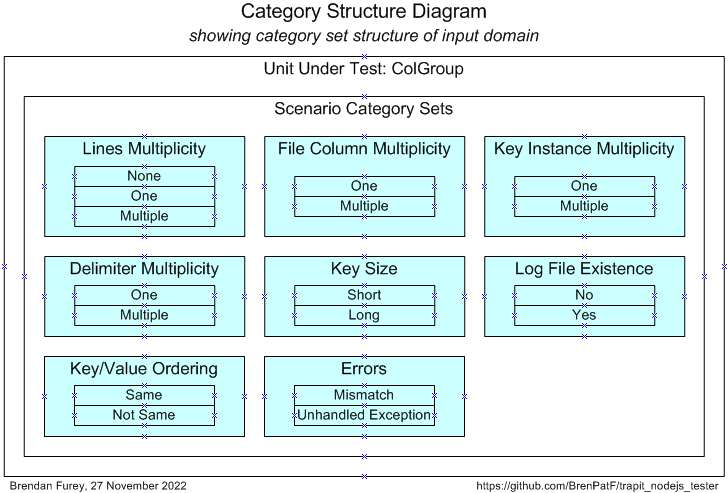
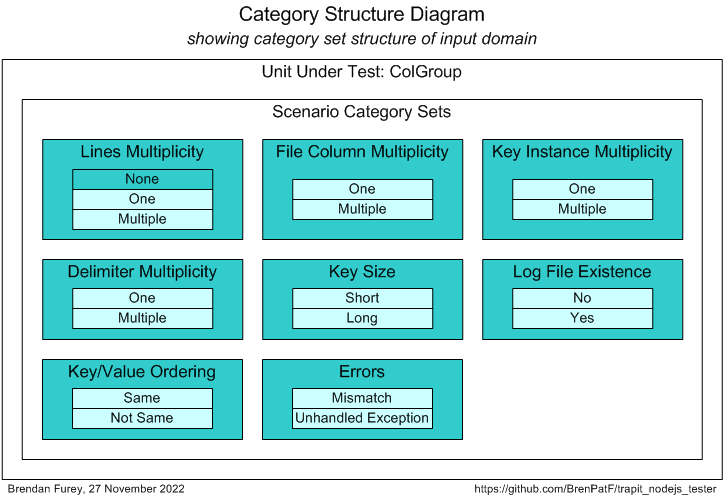
Added link to blog "The Math Function Unit Testing Design Pattern"
Made diagram colours consistent with the blog.

diff --git a/README.md b/README.md
@@ -5,7 +5,7 @@
 
 :detective:
 
-This module supports a new design pattern for unit testing that can be applied in any language, and is here implemented in JavaScript. The module name is derived from 'TRansactional API Testing' (TRAPIT), and the 'unit' should be considered to be a transactional unit. This is not micro-testing: It is data-driven and fully supports multi-scenario testing and re-factoring.
+This module supports a new design pattern for unit testing, [The Math Function Unit Testing Design Pattern](https://brenpatf.github.io/2023/06/05/the-math-function-unit-testing-design-pattern.html), that can be applied in any language, and is here implemented in JavaScript. The module name is derived from 'TRansactional API Testing' (TRAPIT), and the 'unit' should be considered to be a transactional unit. This is not micro-testing: It is data-driven and fully supports multi-scenario testing and re-factoring.
 
 The Trapit module supports the complete process for testing JavaScript programs, and, for non-JavaScript programs following the design pattern, formats the results by reading in a results object from a JSON file materialized by the external unit test program.
 
@@ -30,7 +30,7 @@ I explained the concepts for the unit testing design pattern in relation specifi
 
 - [The Database API Viewed As A Mathematical Function: Insights into Testing](https://www.slideshare.net/brendanfurey7/database-api-viewed-as-a-mathematical-function-insights-into-testing)
 
-I later named the approach 'The Math Function Unit Testing design pattern' when I applied it in Javascript and wrote a JavaScript program to format results both in plain text and as HTML pages:
+I later named the approach [The Math Function Unit Testing Design Pattern](https://brenpatf.github.io/2023/06/05/the-math-function-unit-testing-design-pattern.html) when I applied it in Javascript and wrote a JavaScript program to format results both in plain text and as HTML pages:
 - [Trapit - JavaScript Unit Tester/Formatter](https://github.com/BrenPatF/trapit_nodejs_tester)
 
 The module also allowed for the formatting of results obtained from testing in languages other than JavaScript by means of an intermediate output JSON file. In 2021 I developed a powershell module that included a utility to generate a template for the JSON input scenarios file required by the design pattern:
@@ -48,7 +48,7 @@ In early 2023 I extended both the the JavaScript results formatter, and the powe
 
 As noted above, the JavaScript module allows for unit testing of JavaScript programs and also the formatting of test results for both JavaScript and non-JavaScript programs. Similarly, the powershell module mentioned allows for unit testing of powershell programs, and also the generation of the JSON input scenarios file template for testing in any language.
 
-In this section we'll start by describing the steps involved in The Math Function Unit Testing design pattern at an overview level. This will show how the generic powershell and JavaScript utilities fit in alongside the language-specific driver utilities.
+In this section we'll start by describing the steps involved in [The Math Function Unit Testing Design Pattern](https://brenpatf.github.io/2023/06/05/the-math-function-unit-testing-design-pattern.html) at an overview level. This will show how the generic powershell and JavaScript utilities fit in alongside the language-specific driver utilities.
 
 Secondly, we'll show how to use the design pattern in unit testing JavaScript programs by means of two simple examples.
 
@@ -60,13 +60,13 @@ Finally, we'll show how to use the JavaScript formatting utility in unit testing
 [&darr; Step 2: Create Results Object](#step-2-create-results-object)<br />
 [&darr; Step 3: Format Results](#step-3-format-results)<br />
 
-At a high level the Math Function Unit Testing design pattern involves three main steps:
+At a high level [The Math Function Unit Testing Design Pattern](https://brenpatf.github.io/2023/06/05/the-math-function-unit-testing-design-pattern.html) involves three main steps:
 
 1. Create an input file containing all test scenarios with input data and expected output data for each scenario, as well as metadata describing the structure
 2. Create a results object based on the input file, but with actual outputs merged in, based on calls to the unit under test
 3. Use the results object to generate unit test results files formatted in HTML and/or text
 
-<img src="png/Math Function UT DP - HL Flow.png">
+<img src="png/HLS.png">
 <br />
 The first and third of these steps are supported by generic utilities that can be used in unit testing in any language. The second step uses a language-specific unit test driver utility.
 
@@ -187,9 +187,9 @@ For JavaScript programs tested using the Math Function Unit Testing design patte
 This creates a subfolder with name based on the unit test title within the input JSON file, and also outputs a table of summary results. The processing is split between three code units:
 - Trapit library package with Test Unit function that drives the unit testing with a callback to a specific wrapper function, then calls the Format Results function to do the formatting
 - Specific Test Package: This has a 1-line main program to call the library driver function, passing in the callback wrapper function
-- Unit Under Test: Called by the wrapper function, which converts between its specific inputs and outputs and the generic version used by the library package
+- Unit Under Test (API): Called by the wrapper function, which converts between its specific inputs and outputs and the generic version used by the library package
 
-<img src="png/MFUTDP - Flow-JS.png">
+<img src="png/PFD-JS.png">
 
 This section illustrates the usage of the package for testing JavaScript programs by means of two examples. The first is a version of the 'Hello World' program traditionally used as a starting point in learning a new programming language. This is useful as it shows the core structures involved in following the design pattern with a minimalist unit under test.
 
@@ -235,7 +235,7 @@ Hello World!
 
 Here is a diagram of the input and output groups for this example:
 
-<img src="png/JSD-HW.png">
+<img src="png/JSD - HW.png">
 
 From the input and output groups depicted we can construct CSV files with flattened group/field structures, and default values added, as follows (with `helloworld_inp.csv` left, `helloworld_out.csv` right):
 <img src="png/groups - helloworld.png">
@@ -459,7 +459,7 @@ The example illustrates how a wrapper function can handle `impure` features of t
 
 Here is a diagram of the input and output groups for this example:
 
-<img src="png/JSD-CG.png">
+<img src="png/JSD - CG.png">
 
 From the input and output groups depicted we can construct CSV files with flattened group/field structures, and default values added, as follows (with `colgroup_inp.csv` left, `colgroup_out.csv` right):
 <img src="png/groups - colgroup.png">
@@ -632,9 +632,9 @@ For non-JavaScript programs tested using the Math Function Unit Testing design p
 This creates a subfolder for each JSON file with name based on the unit test title within the file, and also outputs a table of summary results for each file. The processing is split between three code units in a similar way to the JavaScript case:
 - Test Unit: External library function that drives the unit testing with a callback to a specific wrapper function
 - Specific Test Package: This has a 1-line main program to call the library driver function, passing in the callback wrapper function
-- Unit Under Test: Called by the wrapper function, which converts between its specific inputs and outputs and the generic version used by the library package
+- Unit Under Test (API): Called by the wrapper function, which converts between its specific inputs and outputs and the generic version used by the library package
 
-<img src="png/MFUTDP - Flow-Ext.png">
+<img src="png/PFD-Ext.png">
 
 In the first step the external program creates the output results JSON file, while in the second step the file is read into an object by the Trapit library package, which then formats the results in exactly the same way as for JavaScript testing.
 
@@ -959,7 +959,7 @@ $ npm install trapit
 [&darr; Step 2: Create Results Object](#step-2-create-results-object-1)<br />
 [&darr; Step 3: Format Results](#step-3-format-results-1)<br />
 
-The package itself is tested using the Math Function Unit Testing design pattern. A 'pure' wrapper function is constructed that takes input parameters and returns a value, and is tested within a loop over scenario records read from a JSON file.
+The package itself is tested using [The Math Function Unit Testing Design Pattern](https://brenpatf.github.io/2023/06/05/the-math-function-unit-testing-design-pattern.html). A 'pure' wrapper function is constructed that takes input parameters and returns a value, and is tested within a loop over scenario records read from a JSON file.
 
 In this case, the pure function getUTResults is unit tested explicitly, while the function fmtTestUnit is called as the main section of the unit test script, test-trapit.js.
 
@@ -981,7 +981,7 @@ where the parameters are input metadata and scenarios objects. The diagram below
 ##### Wrapper Function Signature Diagram
 [&uarr; Unit Test Wrapper Function](#unit-test-wrapper-function)<br />
 
-<img src="png/Math Function UT DP - JSD.png">
+<img src="png/JSD-UT.png">
 
 From the input and output groups depicted we can construct CSV files with flattened group/field structures, and default values added, as follows (with `getutresults_inp.csv` left, `getutresults_out.csv` right):
 
@@ -1307,6 +1307,7 @@ There are five subfolders below the trapit root folder:
 
 ## See Also
 [&uarr; In This README...](#in-this-readme)<br />
+- [The Math Function Unit Testing Design Pattern](https://brenpatf.github.io/2023/06/05/the-math-function-unit-testing-design-pattern.html)
 - [Database API Viewed As A Mathematical Function: Insights into Testing](https://www.slideshare.net/brendanfurey7/database-api-viewed-as-a-mathematical-function-insights-into-testing)
 - [Unit Testing, Scenarios and Categories: The SCAN Method](https://brenpatf.github.io/jekyll/update/2021/10/17/unit-testing-scenarios-and-categories-the-scan-method.html)
 - [Powershell Trapit Unit Testing Utilities module](https://github.com/BrenPatF/powershell_utils/tree/master/TrapitUtils)
@@ -1321,6 +1322,7 @@ There are five subfolders below the trapit root folder:
 - [Oracle Unit Test Examples](https://github.com/BrenPatF/oracle_unit_test_examples)
 - [Shortest Path Analysis of Large Networks by SQL and PL/SQL](https://github.com/BrenPatF/shortest_path_sql)
 - [Node.js Downloads](https://nodejs.org/en/download)
+- [Trapit - JavaScript Unit Tester/Formatter](https://github.com/BrenPatF/trapit_nodejs_tester)
 
 ## Software Versions
 
